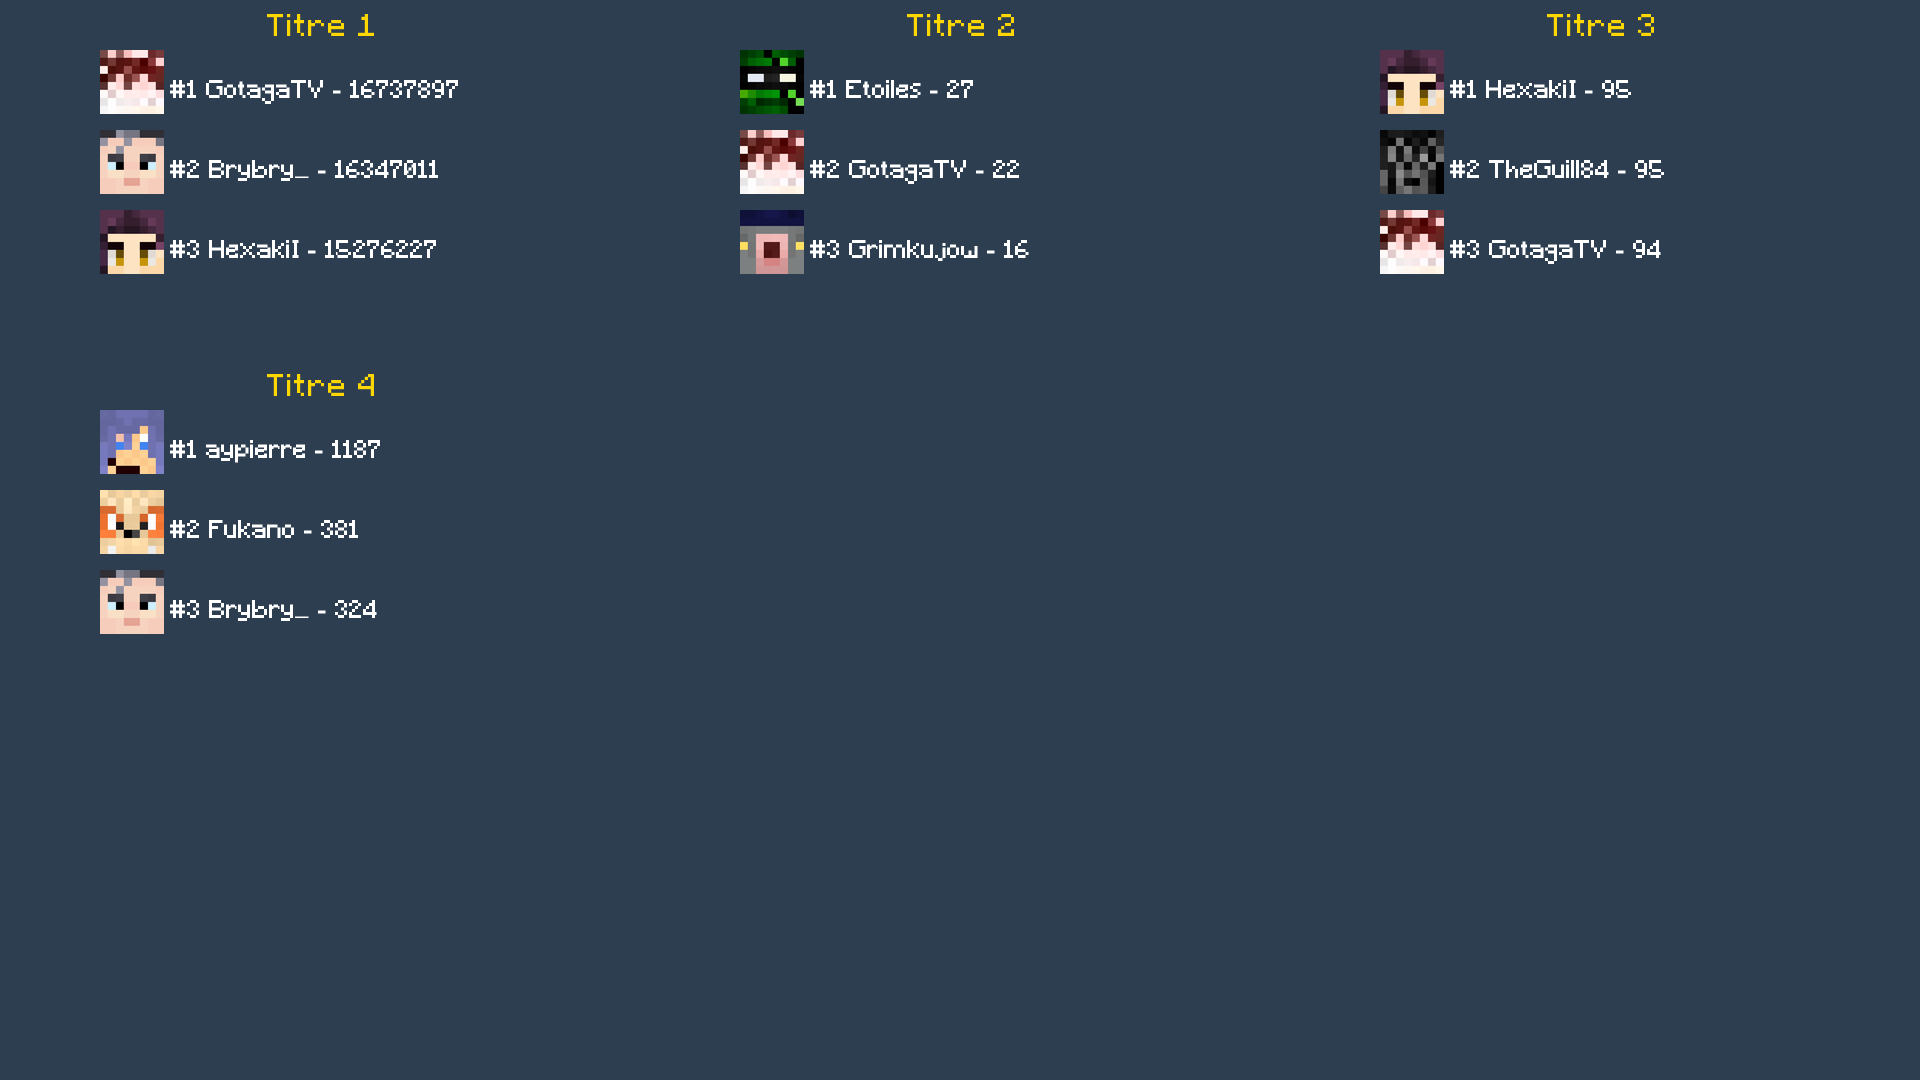
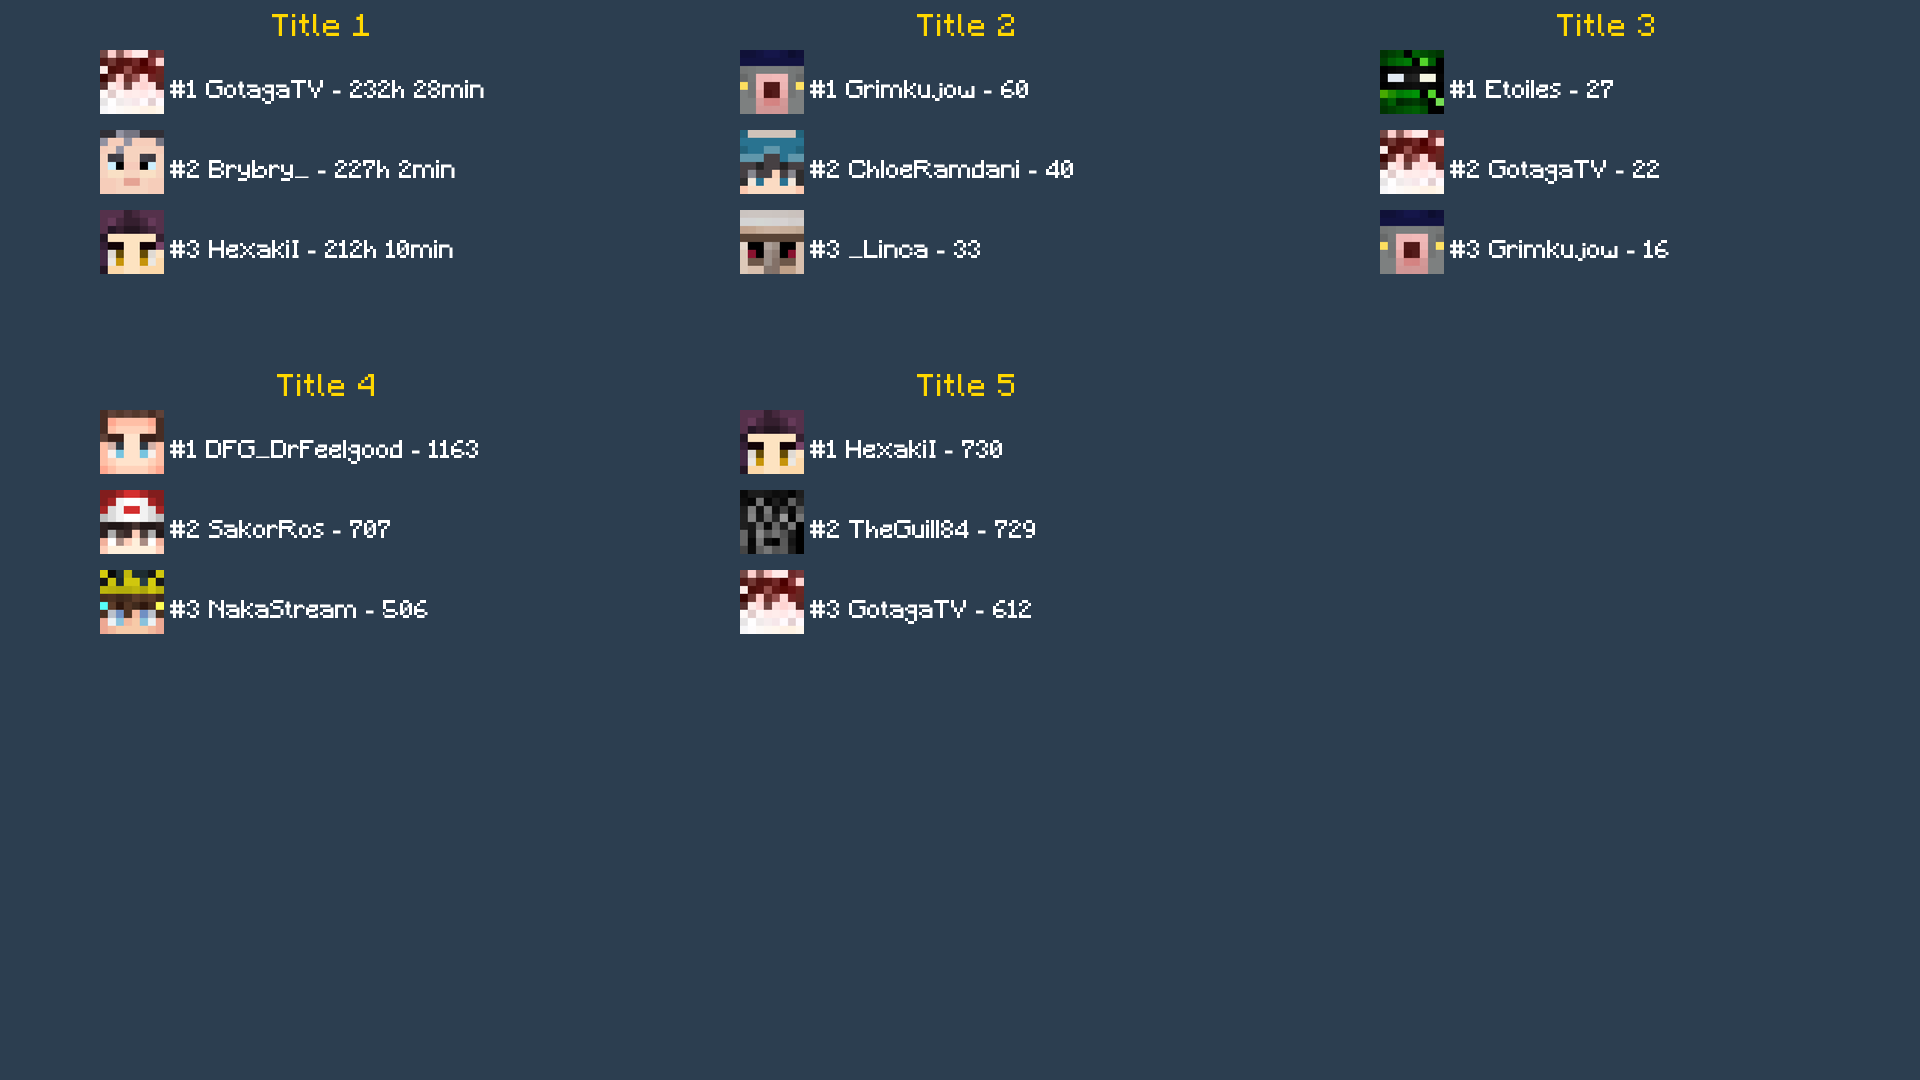
Option in config for leaderboards image

diff --git a/main.py b/main.py
@@ -1,3 +1,5 @@
+#TODO: manage correctly importdatas etc based on enabled features
+
 import json
 import os
 import pandas as pd
@@ -457,11 +459,14 @@ def loadCobblemonData(csvtoggle, csvpath, inputmode, ftpserver, ftppath, localpa
     return df, df2
 
 
-def getVanillaLeaderboard(df, cat, subcat):
+def getVanillaLeaderboard(df, cat, subcat, verbose=True, case=None):
     row = df.loc['stats'].loc[cat].loc[subcat].sort_values().iloc[::-1]
-    print("Leaderboard of", cat, subcat, ":")
     df = pd.DataFrame(row).rename(columns={subcat: 0})
-    print(df)
+    if case == "playtime":
+        df[0] = df[0].apply(lambda x: f"{(int(x) // (20*60*60))}h {((int(x)) // (20*60))%60}min")
+    if verbose:
+        print("Leaderboard of", cat, subcat, ":")
+        print(df)
     return df
 
 def getVanillaBestAndWorst(df, username, cleaning, cleaningvalue):
@@ -564,7 +569,10 @@ def top_image(df_list, config, titles):
             avatar = Image.open(BytesIO(response.content)).resize((64, 64), Image.Resampling.LANCZOS)
             img.paste(avatar, (100 + x_margin, y_offset + y_margin))
             font = ImageFont.truetype("fonts/minecraft.ttf", 24)
-            draw.text((170 + x_margin, y_offset + 30 + y_margin), f"#{rank} {player.name} - {int(player.iloc[0])}", fill="white", font=font)
+            score = player.iloc[0]
+            if not isinstance(score, str):
+                score = int(score)
+            draw.text((170 + x_margin, y_offset + 30 + y_margin), f"#{rank} {player.name} - {score}", fill="white", font=font)
             y_offset += 80
             rank += 1
             
@@ -711,11 +719,33 @@ if config['COBBLEMONLEADERBOARDS']['MoneyEnable'] == "true":
     leaderboards["cobblemon_money"] = player_sum
     most_pokemons_leaderboard(player_sum, config, "money",  conn)
 
+leaderboards_to_show = []
+for leaderboard_type in config['TOPIMAGE']['Leaderboards'].split(','):
+    leaderboard_type = leaderboard_type.strip()
+    if leaderboard_type.split('/')[0] == "vanilla":
+        if leaderboard_type.split('/')[1] == "minecraft:custom":
+            if leaderboard_type.split('/')[2] == "minecraft:play_time":
+                leaderboards_to_show.append(getVanillaLeaderboard(vanilla_df, leaderboard_type.split('/')[1], leaderboard_type.split('/')[2], False, "playtime"))
+            else:
+                leaderboards_to_show.append(getVanillaLeaderboard(vanilla_df, leaderboard_type.split('/')[1], leaderboard_type.split('/')[2], False))
+        else:
+            leaderboards_to_show.append(getVanillaLeaderboard(vanilla_df, leaderboard_type.split('/')[1], leaderboard_type.split('/')[2], False))
+    elif leaderboard_type.split('/')[0] == "cobblemon":
+        if leaderboard_type.split('/')[1] == "pvp":
+            leaderboards_to_show.append(getCobblemonBattleLeaderboard(cobblemon_df2, "totalPvPBattleVictoryCount"))
+        elif leaderboard_type.split('/')[1] == "pvw":
+            leaderboards_to_show.append(getCobblemonBattleLeaderboard(cobblemon_df2, "totalPvWBattleVictoryCount"))
+        elif leaderboard_type.split('/')[1] == "total":
+            leaderboards_to_show.append(leaderboards["cobblemon_total"])
+        elif leaderboard_type.split('/')[1] == "shiny":
+            leaderboards_to_show.append(leaderboards["cobblemon_shiny"])
+        elif leaderboard_type.split('/')[1] == "legendary":
+            leaderboards_to_show.append(leaderboards["cobblemon_legendary"])
+        elif leaderboard_type.split('/')[1] == "money":
+            leaderboards_to_show.append(leaderboards["cobblemon_money"])
 
-leaderboards["vanilla1"] = (getVanillaLeaderboard(vanilla_df, config['VANILLALEADERBOARD']['Category'], config['VANILLALEADERBOARD']['Subcategory']))
-leaderboards["cobblemonbattle"] = (getCobblemonBattleLeaderboard(cobblemon_df2, "totalPvPBattleVictoryCount"))
 # Minecraft-style top feature
-top_image([leaderboards["vanilla1"], leaderboards["cobblemonbattle"], leaderboards["cobblemon_legendary"], leaderboards["cobblemon_money"]], config, ["Titre 1", "Titre 2", "Titre 3", "Titre 4", "Titre 5", "Titre 6", "Titre 7", "Titre 8", "Titre 9"])
+top_image(leaderboards_to_show, config, config['TOPIMAGE']['Titles'].split(","))
 
 # SQLite close connection
 if config['COBBLEMONLEADERBOARDS']['SQLiteOutput']:
